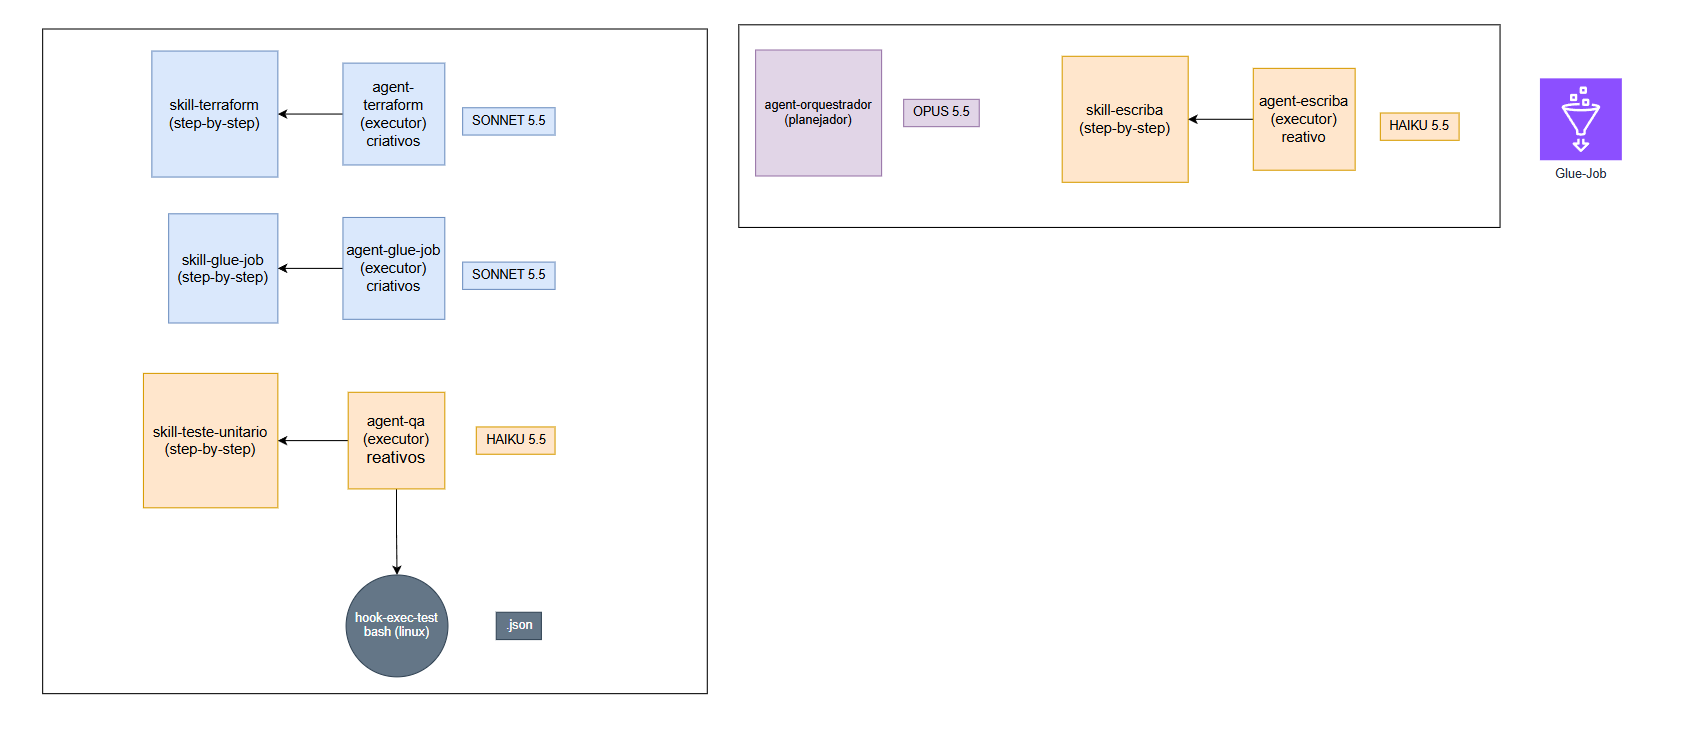
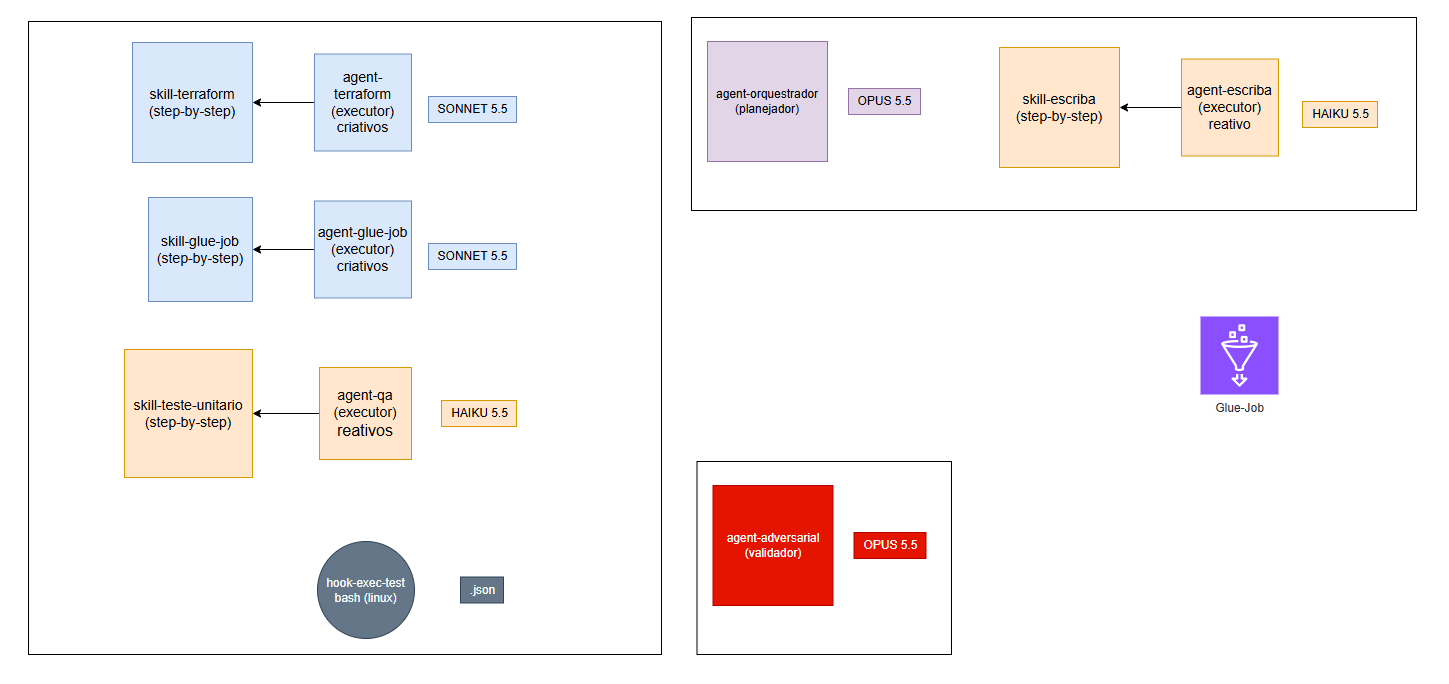
Ajuste na imagem da arquitetura

diff --git a/docs/INSTALACAO.md b/docs/INSTALACAO.md
@@ -79,14 +79,12 @@ Deve mostrar **7 skills, 6 agents e 1 hook**. Se estiver com o Claude Code abert
    mkdir meu-repo-de-dados && cd meu-repo-de-dados
    git init
    ```
-
 2. Abra o Claude Code: `claude`
 3. Inicie a sessão:
 
    ```
    /harness-dados:iniciar-sessao
    ```
-
 4. Na primeira vez, o bootstrap cria (sem sobrescrever nada existente):
 
    ```
@@ -101,13 +99,11 @@ Deve mostrar **7 skills, 6 agents e 1 hook**. Se estiver com o Claude Code abert
    ```
 
    Depois o escriba faz o briefing e o orquestrador pergunta se você quer continuar uma entrega ou iniciar um novo pedido.
-
 5. Instale as dependências de teste (em outro terminal, na mesma pasta):
 
    ```bash
    pip install -r requirements-dev.txt
    ```
-
 6. Para terminar o teste:
 
    ```
@@ -116,12 +112,12 @@ Deve mostrar **7 skills, 6 agents e 1 hook**. Se estiver com o Claude Code abert
 
 ## Problemas comuns
 
-| Sintoma | Solução |
-|---|---|
-| `Filename too long` no `marketplace add` (Windows) | `git config --global core.longpaths true` e repita o comando |
-| Os comandos `/harness-dados:...` não aparecem | Reinicie o Claude Code e confira com `claude plugin list` se o plugin está `enabled` |
-| O hook não roda os testes / `pytest` não encontrado | Rode `pip install -r requirements-dev.txt` com o Python que está no PATH |
-| Plugin desatualizado | Veja a seção abaixo e rode o update |
+| Sintoma                                                 | Solução                                                                                 |
+| ------------------------------------------------------- | ----------------------------------------------------------------------------------------- |
+| `Filename too long` no `marketplace add` (Windows)  | `git config --global core.longpaths true` e repita o comando                            |
+| Os comandos `/harness-dados:...` não aparecem        | Reinicie o Claude Code e confira com `claude plugin list` se o plugin está `enabled` |
+| O hook não roda os testes / `pytest` não encontrado | Rode `pip install -r requirements-dev.txt` com o Python que está no PATH               |
+| Plugin desatualizado                                    | Veja a seção abaixo e rode o update                                                     |
 
 ## Atualizar e desinstalar
 
@@ -137,7 +133,7 @@ Pelo terminal:
 claude plugin marketplace update harness-dados-marketplace   # baixa a versão mais nova do repo
 claude plugin update harness-dados                           # atualiza o plugin instalado
 claude plugin uninstall harness-dados                        # remove o plugin
-claude plugin marketplace remove harness-dados-marketplace   # remove o marketplace
+claude plugin marketplace remove harness-dados-marketplace   # remove o marketplace 
 ```
 
 ## Próximo passo
